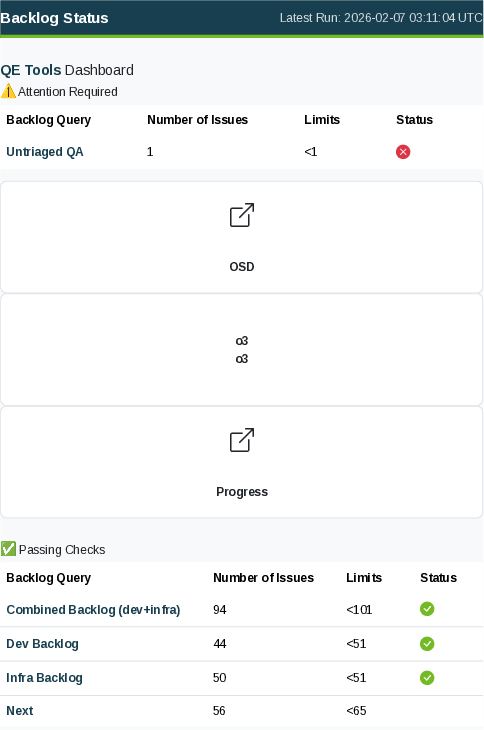
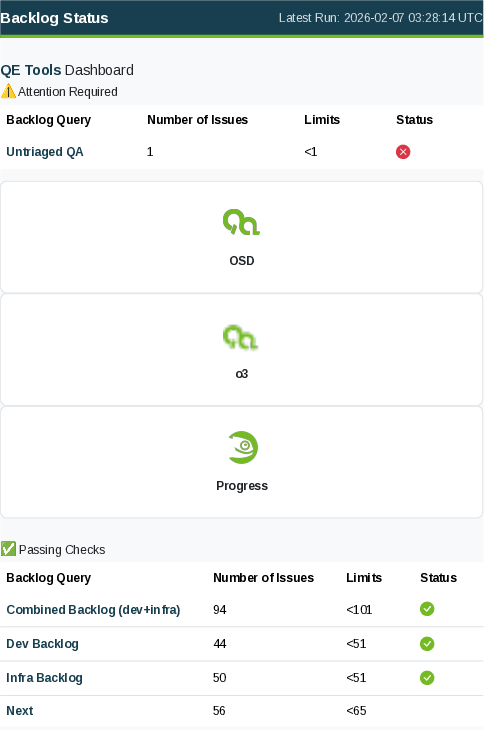
Deploying to gh-pages from @ r-richardson/qa-tools-backlog-assistant@56ece82e0ad66f2f0632d4b194063a45e155c7c6 🚀

diff --git a/index.html b/index.html
@@ -144,7 +144,7 @@
   <div class="container">
     <a class="navbar-brand" href="#">Backlog Status</a>
     <span class="navbar-text">
-       Latest Run: 2026-02-07 03:11:04 UTC
+       Latest Run: 2026-02-07 03:28:14 UTC
     </span>
   </div>
 </nav>
@@ -163,7 +163,7 @@
 <div class="app-grid">
 
         <a href="https://openqa.suse.de" class="app-card" target="_blank">
-            <i class="bi bi-box-arrow-up-right app-icon" style="font-size: 2rem; display: flex; align-items: center; justify-content: center;"></i>
+            <img src="icons/favicon.png" alt="OSD" class="app-icon" />
             <span>OSD</span>
         </a>
         
@@ -175,7 +175,7 @@
         
 
         <a href="https://progress.opensuse.org" class="app-card" target="_blank">
-            <i class="bi bi-box-arrow-up-right app-icon" style="font-size: 2rem; display: flex; align-items: center; justify-content: center;"></i>
+            <img src="icons/Progress.png" alt="Progress" class="app-icon" />
             <span>Progress</span>
         </a>
         
